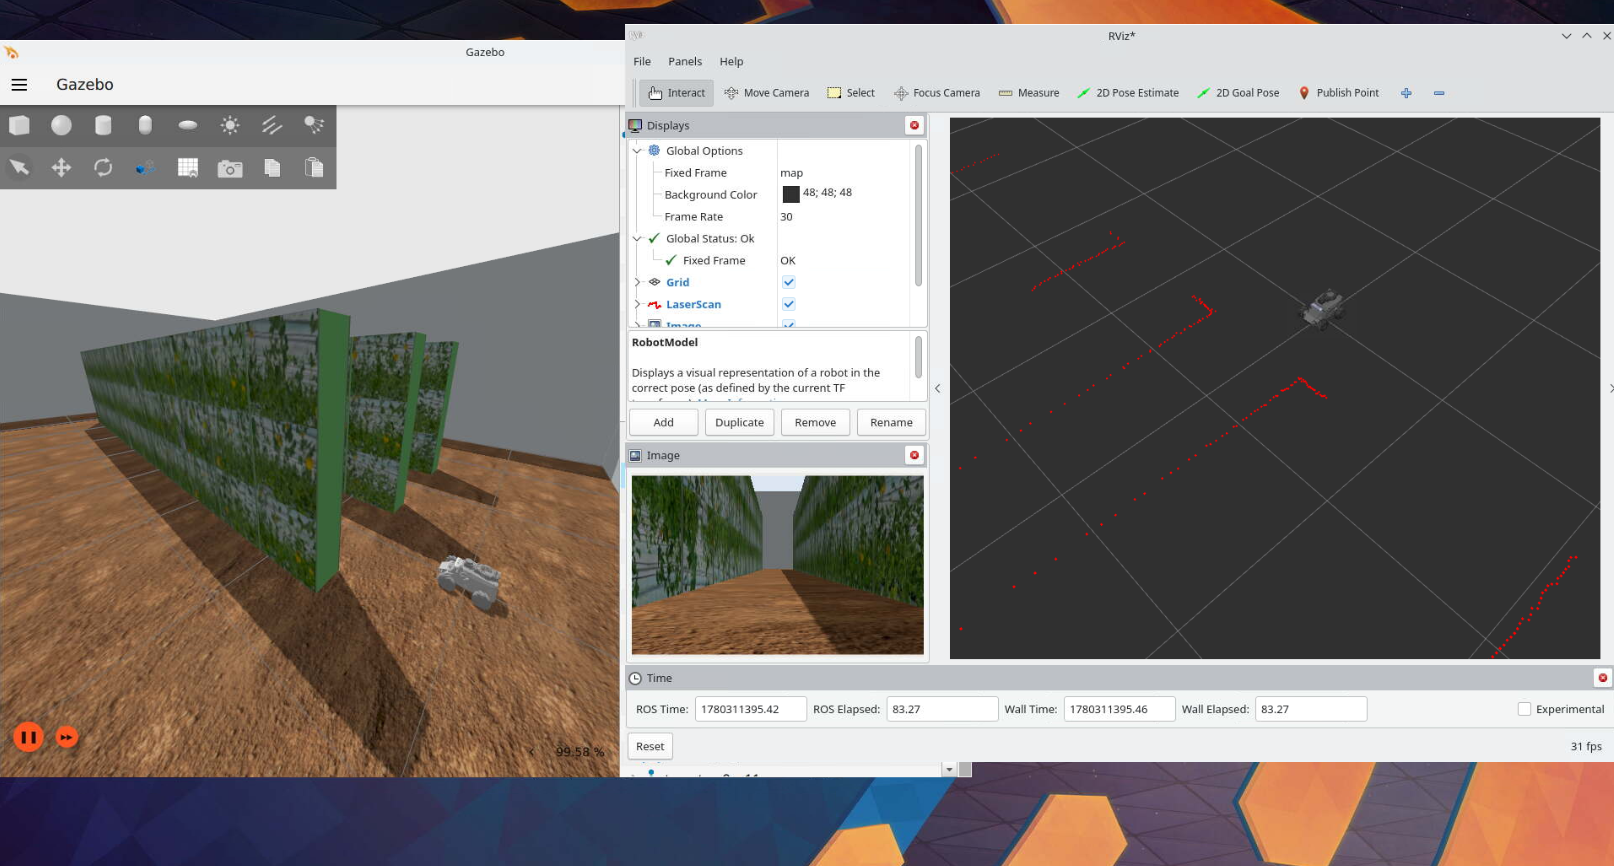
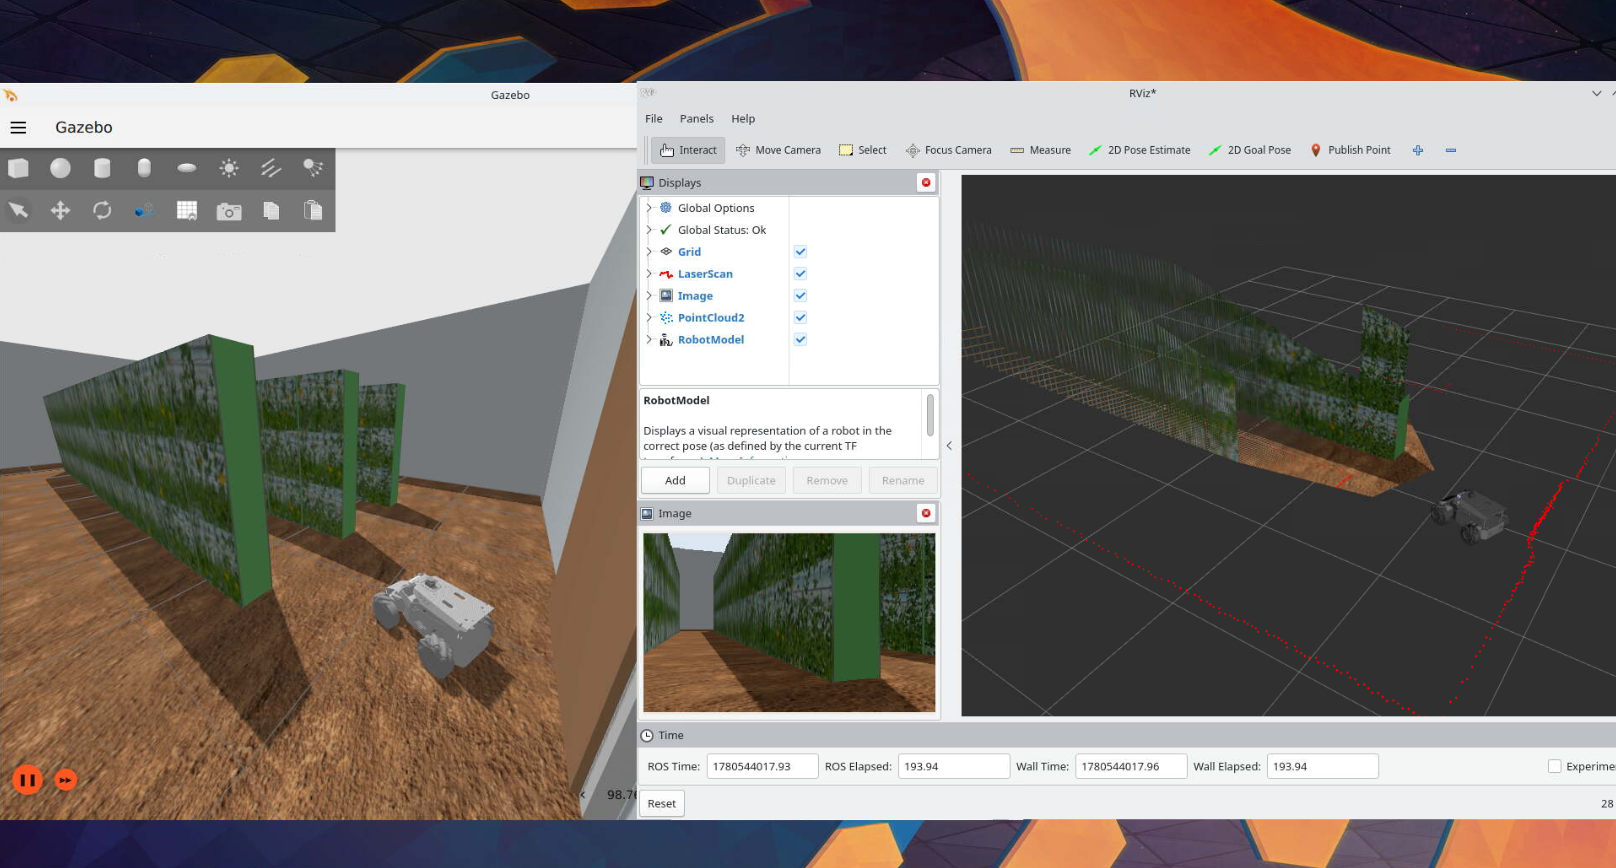
feat: widen sim LiDAR to full 360° scan matching real MS200
- Add greenhouse_sim/urdf/lidar_scaled.gazebo.xacro — fork of the vendor
  lidar.gazebo.xacro, which restricted the FOV to ~156° (±1.36 rad,
  270 samples); the real Oradar MS200 is a 360° scanner
- 450 samples over ±π (real MS200 spec: 4500 Hz ranging / 10 Hz scan
  = 450 pts/rev, 0.8°/sample); topic/rate/range/noise kept as vendor
- Switch robot_scaled.gazebo.xacro include to the fork (vendor monorepo
  untouched)
- Update sensor specs in docs/environment.md and rl_state_space.md
  (270 samples/"270°" → 450 samples/360°)
- Verified in sim: angle_min/max = ±π, len(ranges) = 450, no self-hits
  (rear sector min 0.81 m — safe for the d_min < 0.3 m collision penalty)
- Update assets/main_image.png hero image

diff --git a/docs/environment.md b/docs/environment.md
@@ -47,10 +47,10 @@ HOST=/  MASTER=/           # 멀티로봇(robot_xxx)용, 현재 비활성
 - ⚠️ 위 `/depth_cam/*` 4토픽은 **greenhouse 스택**(`greenhouse_sim/launch/ros_ign_bridge.launch.py`, RGB-D `rgbd_camera`) 기준. 벤더 `robot_gazebo` 브리지는 여전히 RGB 전용(`/depth_cam/depth_cam` Image)이다.
 
 ## 센서 스펙 (URDF/xacro 검증값)
-RViz2로 발행 확인된 센서 구성. 상세 정의는 `robot_gazebo/urdf/{lidar,imu}.gazebo.xacro`, 카메라는 `greenhouse_sim/urdf/depth_cam_scaled.gazebo.xacro`.
+RViz2로 발행 확인된 센서 구성. 상세 정의는 IMU는 `robot_gazebo/urdf/imu.gazebo.xacro`, LiDAR/카메라는 `greenhouse_sim/urdf/{lidar_scaled,depth_cam_scaled}.gazebo.xacro`.
 | 센서 | Ignition 타입 | 주요 스펙 | 비고 |
 |------|---------------|-----------|------|
-| LiDAR (MS200) | `gpu_lidar` | 270 samples, ±~78°(±1.36 rad), 10 Hz, 0.15–12 m | `/scan`(+`/scan/points`) |
+| LiDAR (MS200) | `gpu_lidar` | 450 samples, 360°(±π, 0.8°/sample), 10 Hz, 0.15–12 m | `/scan`(+`/scan/points`) — greenhouse 포크. 벤더 파일은 ~156°(±1.36 rad)·270 samples 로 제한돼 있었음(실물 MS200 은 360°) |
 | IMU | `imu` | 50 Hz | `/imu` |
 | 카메라 (aurora) | `rgbd_camera` | 640×400, FOV 60°(1.047 rad), 30 Hz, clip 0.1–10 m | **RGB-D** (greenhouse 스택) — `/depth_cam/{image,depth_image,points,camera_info}`, frame_id `camera_link0`. 정의: `greenhouse_sim/urdf/depth_cam_scaled.gazebo.xacro` |
 - 구동: `MecanumDrive` 플러그인 — `/controller/cmd_vel`(Twist)의 `linear.x/linear.y/angular.z`로 홀로노믹 제어.

diff --git a/docs/rl_design/rl_state_space.md b/docs/rl_design/rl_state_space.md
@@ -12,8 +12,8 @@
     - $Width, Height$: 마커의 가로/세로 크기 (Depth 센서가 없는 환경에서 타겟과의 상대적 거리를 유추하는 간접 지표로 활용)
 
 ### 2.2. 2D LiDAR: 구역 분할(Sector Pooling) 및 노이즈 필터링
-270개의 방대한 원시 거리 레이저 데이터를 그대로 입력할 경우의 학습 저하를 막기 위해 기하학적 안전 여백 특징으로 압축한다.
-- 가공 방식 (부채꼴 구역 분할): 로봇의 270도 시야각을 5개 혹은 7개의 핵심 부채꼴 구역(예: 좌측, 좌전방, 정면, 우전방, 우측)으로 분할한다.
+450개의 방대한 원시 거리 레이저 데이터(360° 스캔, 0.8°/샘플)를 그대로 입력할 경우의 학습 저하를 막기 위해 기하학적 안전 여백 특징으로 압축한다.
+- 가공 방식 (부채꼴 구역 분할): 로봇의 360도 시야각을 5개 혹은 7개의 핵심 부채꼴 구역(예: 좌측, 좌전방, 정면, 우전방, 우측)으로 분할한다.
 - 노이즈 필터링 전략: 각 구역의 생(Raw) 최솟값을 그대로 쓰면 먼지나 반사광 노이즈로 인해 급제동이 걸릴 수 있으므로 아래 전처리를 필수 적용한다.
     - 백분위수(Percentile) 필터: 각 구역 내 하위 3~5% 수치들을 최솟값 경계로 간주하여 단일 점(Outlier) 노이즈 무시.
     - 결측치 클리핑(Clipping): 센서 측정 범위를 벗어나는 NaN이나 Inf 값을 최대 감지 거리(Max Range)로 강제 치환.